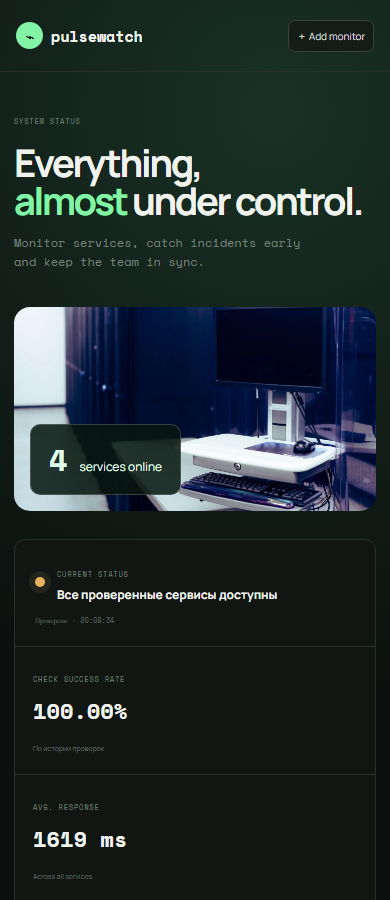
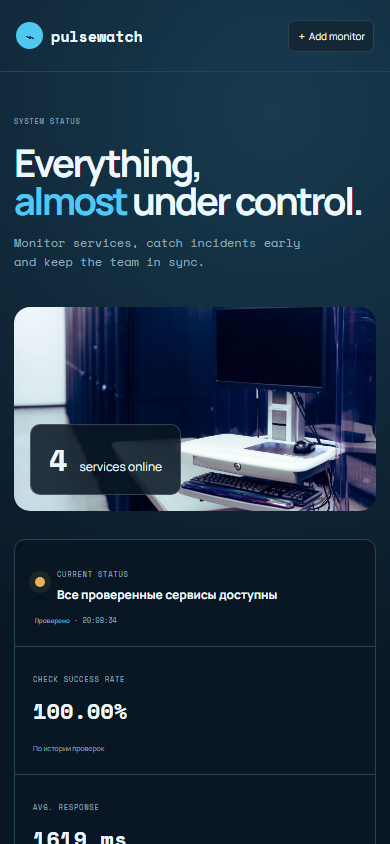
Update the service monitor to navy and cyan

diff --git a/public/styles.css b/public/styles.css
@@ -1,10 +1,10 @@
 :root {
   font-family: Manrope, sans-serif;
-  color: #f0f3ed;
-  background: #0c100e;
-  --green: #83f3a6;
-  --line: #29302c;
-  --muted: #7f8982;
+  color: #edf8ff;
+  background: #091724;
+  --green: #51c8f2;
+  --line: #284354;
+  --muted: #91a9b9;
 }
 * {
   box-sizing: border-box;
@@ -12,7 +12,7 @@
 body {
   margin: 0;
   min-width: 20rem;
-  background: radial-gradient(circle at 70% 5%, #193125 0, transparent 28%), #0c100e;
+  background: radial-gradient(circle at 70% 5%, #183b50 0, transparent 28%), #091724;
 }
 button,
 input {
@@ -39,7 +39,7 @@ body > header {
   margin-right: 0.5rem;
   border-radius: 50%;
   background: var(--green);
-  color: #101712;
+  color: #132736;
   font-style: normal;
 }
 nav {
@@ -47,7 +47,7 @@ nav {
   gap: 1.625rem;
 }
 nav a {
-  color: #77817a;
+  color: #91a9b9;
   font-size: 0.5625rem;
 }
 nav .active {
@@ -56,10 +56,10 @@ nav .active {
 .add {
   justify-self: end;
   margin-right: 2.8125rem;
-  border: 0.0625rem solid #3a443e;
+  border: 0.0625rem solid #284354;
   border-radius: 0.4375rem;
-  background: #151b17;
-  color: #d9ddd8;
+  background: #132736;
+  color: #edf8ff;
   padding: 0.5rem 0.75rem;
   font-size: 0.5rem;
 }
@@ -72,7 +72,7 @@ nav .active {
   height: 1.75rem;
   border-radius: 50%;
   background: #e3b66f;
-  color: #222;
+  color: #091724;
   font-size: 0.5rem;
 }
 main {
@@ -93,7 +93,7 @@ main {
     400 0.4375rem 'Space Mono',
     monospace;
   letter-spacing: 0.12em;
-  color: #758078;
+  color: #91a9b9;
 }
 .hero h1 {
   margin: 0.875rem 0;
@@ -106,7 +106,7 @@ main {
   font-style: normal;
 }
 .hero p {
-  color: #78827b;
+  color: #91a9b9;
   font:
     400 0.5625rem/1.6 'Space Mono',
     monospace;
@@ -119,7 +119,7 @@ main {
 .overview {
   border: 0.0625rem solid var(--line);
   border-radius: 0.6875rem;
-  background: #111613;
+  background: #091724;
 }
 .overall {
   display: flex;
@@ -142,7 +142,7 @@ main {
 }
 .overall time {
   margin-left: auto;
-  color: #657068;
+  color: #91a9b9;
   font:
     400 0.4375rem 'Space Mono',
     monospace;
@@ -166,7 +166,7 @@ main {
     monospace;
 }
 .stats span {
-  color: #6c766f;
+  color: #91a9b9;
   font-size: 0.4375rem;
 }
 .grid {
@@ -179,7 +179,7 @@ main {
   padding: 1.25rem;
   border: 0.0625rem solid var(--line);
   border-radius: 0.6875rem;
-  background: #111613;
+  background: #091724;
 }
 .panel-head {
   display: flex;
@@ -193,7 +193,7 @@ main {
 .panel-head button {
   border: 0;
   background: none;
-  color: #879189;
+  color: #91a9b9;
   font-size: 0.5rem;
 }
 .monitor {
@@ -202,7 +202,7 @@ main {
   gap: 0.75rem;
   align-items: center;
   padding: 0.875rem 0;
-  border-top: 0.0625rem solid #242b27;
+  border-top: 0.0625rem solid #284354;
 }
 .monitor:first-child {
   margin-top: 0.9375rem;
@@ -217,14 +217,14 @@ main {
   height: 0.5rem;
   border-radius: 50%;
   background: var(--green);
-  box-shadow: 0 0 0 0.3125rem #83f3a613;
+  box-shadow: 0 0 0 0.3125rem #51c8f21c;
 }
 .monitor.down .monitor-name > i {
   background: #f07272;
   box-shadow: 0 0 0 0.3125rem #f0727213;
 }
 .monitor.unknown .monitor-name > i {
-  background: #8b9692;
+  background: #91a9b9;
   box-shadow: none;
 }
 .monitor.degraded .monitor-name > i {
@@ -253,7 +253,7 @@ main {
 }
 .spark i {
   width: 0.25rem;
-  background: #44634e;
+  background: #284354;
 }
 .spark i:nth-child(1) {
   height: 35%;
@@ -280,7 +280,7 @@ main {
     monospace;
 }
 .monitor > span small {
-  color: #69736c;
+  color: #91a9b9;
 }
 .line-chart {
   height: 11.875rem;
@@ -304,7 +304,7 @@ main {
   stroke-width: 2;
 }
 .line-chart > span {
-  color: #59635c;
+  color: #91a9b9;
   font:
     400 0.375rem 'Space Mono',
     monospace;
@@ -324,7 +324,7 @@ main {
   font:
     400 0.4375rem 'Space Mono',
     monospace;
-  color: #748078;
+  color: #91a9b9;
 }
 .latency-foot i {
   display: inline-block;
@@ -358,7 +358,7 @@ main {
   font:
     400 0.4375rem 'Space Mono',
     monospace;
-  color: #6f7972;
+  color: #91a9b9;
 }
 .incident h3 {
   margin: 0 0 0.3125rem;
@@ -366,7 +366,7 @@ main {
 }
 .incident p {
   margin: 0;
-  color: #7c867f;
+  color: #91a9b9;
   font-size: 0.5rem;
   line-height: 1.5;
 }
@@ -374,8 +374,8 @@ main {
   height: max-content;
   padding: 0.3125rem 0.4375rem;
   border-radius: 0.75rem;
-  background: #253128;
-  color: #8ce8a5;
+  background: #183b50;
+  color: #91ddf7;
   font-size: 0.4375rem;
   text-align: center;
 }
@@ -384,21 +384,21 @@ main {
   color: #ecc174;
 }
 .report {
-  border: 0.0625rem solid #3a443e !important;
+  border: 0.0625rem solid #284354 !important;
   border-radius: 0.375rem !important;
   padding: 0.4375rem 0.625rem !important;
-  color: #c2c8c3 !important;
+  color: #c6dbe5 !important;
 }
 dialog {
   width: min(27.5rem, calc(100% - 1.5rem));
-  border: 0.0625rem solid #354139;
+  border: 0.0625rem solid #284354;
   border-radius: 0.875rem;
-  background: #151b17;
-  color: #eef2ed;
+  background: #132736;
+  color: #edf8ff;
   padding: 0;
 }
 dialog::backdrop {
-  background: #050706b8;
+  background: #091724b8;
 }
 dialog form {
   position: relative;
@@ -412,13 +412,13 @@ dialog h2 {
 dialog label {
   display: grid;
   gap: 0.3125rem;
-  color: #89938b;
+  color: #91a9b9;
   font-size: 0.5rem;
 }
 dialog input {
-  border: 0.0625rem solid #354039;
+  border: 0.0625rem solid #284354;
   border-radius: 0.4375rem;
-  background: #0f1411;
+  background: #091724;
   color: white;
   padding: 0.625rem;
 }
@@ -435,7 +435,7 @@ dialog input {
   border: 0;
   border-radius: 0.4375rem;
   background: var(--green);
-  color: #122016;
+  color: #183b50;
   padding: 0.6875rem;
   font-size: 0.5625rem;
   font-weight: 700;
@@ -507,7 +507,7 @@ dialog input {
   margin-left: 1.75rem;
   border-radius: 1rem;
   overflow: hidden;
-  background: #13221a;
+  background: #183b50;
 }
 .service-visual img {
   width: 100%;
@@ -525,8 +525,8 @@ dialog input {
   padding: 0.75rem 1.125rem;
   border: 0.0625rem solid #ffffff30;
   border-radius: 0.625rem;
-  background: #081710dd;
-  color: #e0ffeb;
+  background: #091724dd;
+  color: #edf8ff;
 }
 .service-caption b {
   font:

diff --git a/public/index.html b/public/index.html
@@ -76,12 +76,12 @@
             <svg viewBox="0 0 400 160" preserveAspectRatio="none">
               <defs>
                 <linearGradient id="g" x1="0" y1="0" x2="0" y2="1">
-                  <stop offset="0" stop-color="#8affb0" stop-opacity=".35" />
-                  <stop offset="1" stop-color="#8affb0" stop-opacity="0" />
+                  <stop offset="0" stop-color="#51c8f2" stop-opacity=".35" />
+                  <stop offset="1" stop-color="#51c8f2" stop-opacity="0" />
                 </linearGradient>
               </defs>
               <polyline id="measured-line" class="line" points="" />
-              <circle id="latest-point" r="3" fill="#8affb0" visibility="hidden" /></svg
+              <circle id="latest-point" r="3" fill="#51c8f2" visibility="hidden" /></svg
             ><span data-history-time="0"></span><span data-history-time="1"></span
             ><span data-history-time="2"></span><span data-history-time="3"></span>
           </div>

diff --git a/public/app.js b/public/app.js
@@ -2,7 +2,7 @@ const loadFeedback = document.createElement('p');
 loadFeedback.className = 'load-feedback';
 loadFeedback.setAttribute('role', 'status');
 loadFeedback.style.cssText =
-  'position:fixed;bottom:16px;left:16px;right:16px;z-index:9999;background:#fff8dd;color:#222;padding:12px 20px;margin:0;font:14px/1.5 system-ui;border-radius:8px';
+  'position:fixed;bottom:16px;left:16px;right:16px;z-index:9999;background:#e6f5fb;color:#091724;padding:12px 20px;margin:0;font:14px/1.5 system-ui;border-radius:8px';
 document.querySelector('main').prepend(loadFeedback);
 let lastLoadArgs = [];
 async function load(...args) {
